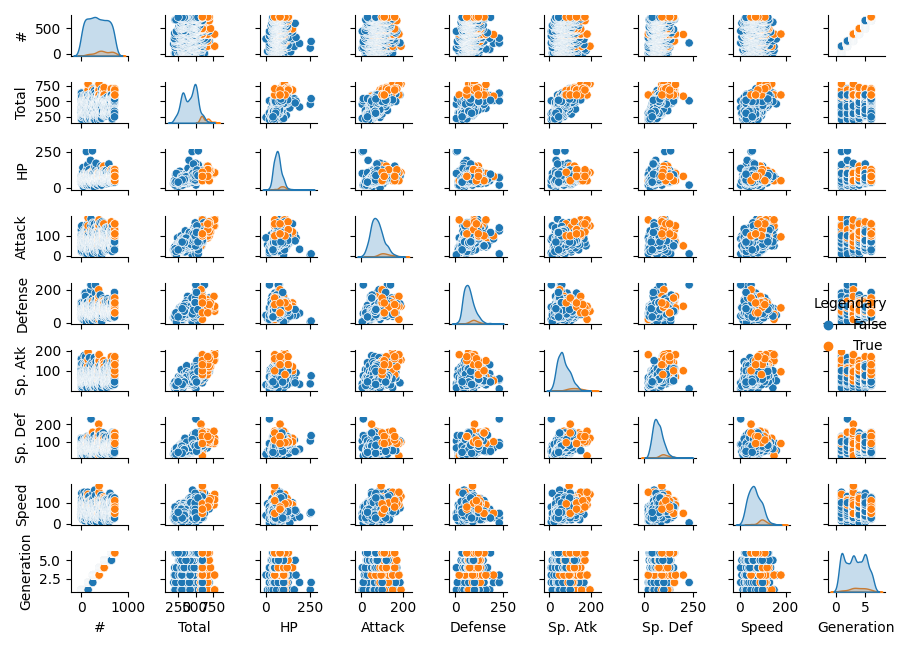
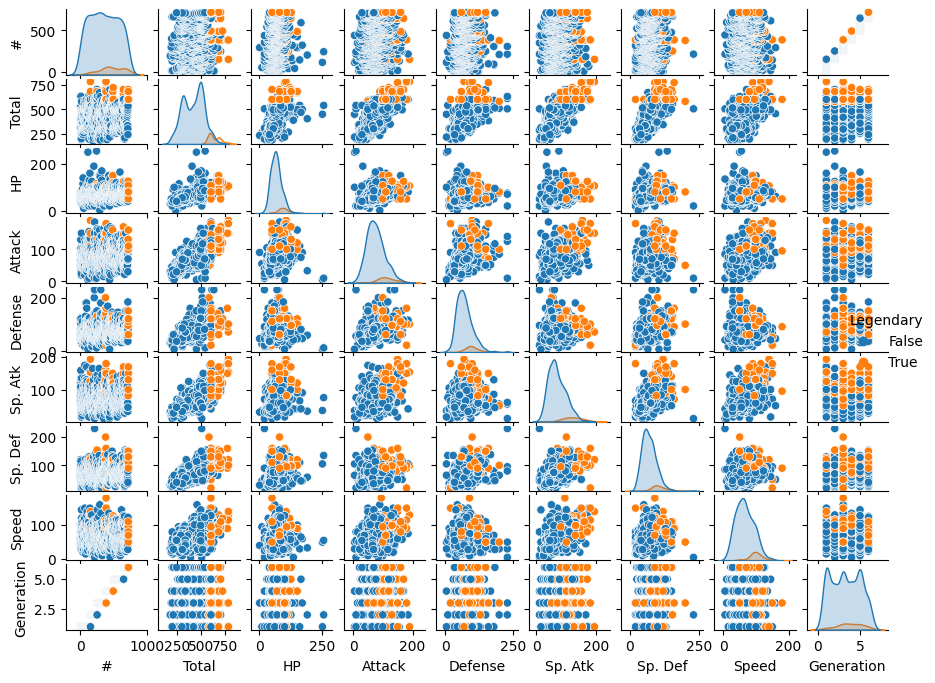
Added power histogram

diff --git a/runme.py b/runme.py
@@ -1,37 +1,21 @@
 import pandas as pd
 import numpy as np
-from matplotlib import pyplot as plt
 import seaborn as sns
 import scripts.scatterplot_matrix
+import scripts.power_histogram
 
 # Part 1: Data Input #
 
 # Convert CSV to DataFrame for Pandas
 df = pd.read_csv("data/Pokemon.csv", engine="python")
 
-# print(df.head(4))
-
 
 # Part 2: Data Visualization #
+# Uncomment the following lines to regenerate plots
 
-WEAK_THRESHOLD = 200
-MOD_THRESHOLD = 400
+# scripts.scatterplot_matrix.create_scatterplot_matrix(df, "Legendary")
+scripts.power_histogram.create_power_histogram(df)
 
-
-def power(row):
-    if row["Total"] < WEAK_THRESHOLD:
-        return "weak"
-    elif row["Total"] < MOD_THRESHOLD:
-        return "moderate"
-    else:
-        return "strong"
-
-
-scripts.scatterplot_matrix.create_scatterplot_matrix(df, "Legendary")
-
-
-# df["Power"] = df.apply(power, axis=1)
-# print(df[["Name", "Power"]].head(5))
 #
 # plt.scatter(df["#"], df["Total"], linewidth=2.0)
 # plt.xlabel("#")
@@ -49,8 +33,7 @@ scripts.scatterplot_matrix.create_scatterplot_matrix(df, "Legendary")
 # ax.set_title('Total vs Generation')
 # plt.show()
 #
-# plt.hist([df["Power"]], bins=7, )
-# plt.show()
+
 
 
 

diff --git a/scripts/power_histogram.py b/scripts/power_histogram.py
@@ -1,0 +1,23 @@
+from matplotlib import pyplot as plt
+
+
+WEAK_THRESHOLD = 200
+MOD_THRESHOLD = 400
+
+
+def power(row):
+    if row["Total"] < WEAK_THRESHOLD:
+        return "weak"
+    elif row["Total"] < MOD_THRESHOLD:
+        return "moderate"
+    else:
+        return "strong"
+
+
+def create_power_histogram(dataframe):
+    print("Generating power histogram....")
+    dataframe["Power"] = dataframe.apply(power, axis=1)
+    figure = plt.figure()
+    plt.hist([dataframe["Power"]], bins=7, )
+    figure.savefig("plots/power_histogram.png", dpi=figure.dpi)
+    print("Finished. Output saved to plots/power_histogram.png.")

diff --git a/scripts/scatterplot_matrix.py b/scripts/scatterplot_matrix.py
@@ -1,10 +1,9 @@
 import seaborn as sns
-from matplotlib import pyplot as plt
 
 
-def create_scatterplot_matrix(dataset, hue):
+def create_scatterplot_matrix(dataframe, hue):
     print("Generating scatterplot matrix....")
-    figure = sns.pairplot(dataset, hue=hue)
+    figure = sns.pairplot(dataframe, hue=hue)
     figure.fig.set_size_inches(9, 6.5)
-    plt.show()
-    print("Finished")
+    figure.savefig("plots/scatterplot_matrix.png", dpi=figure.fig.dpi)
+    print("Finished. Output saved to plots/scatterplot_matrix.png.")
